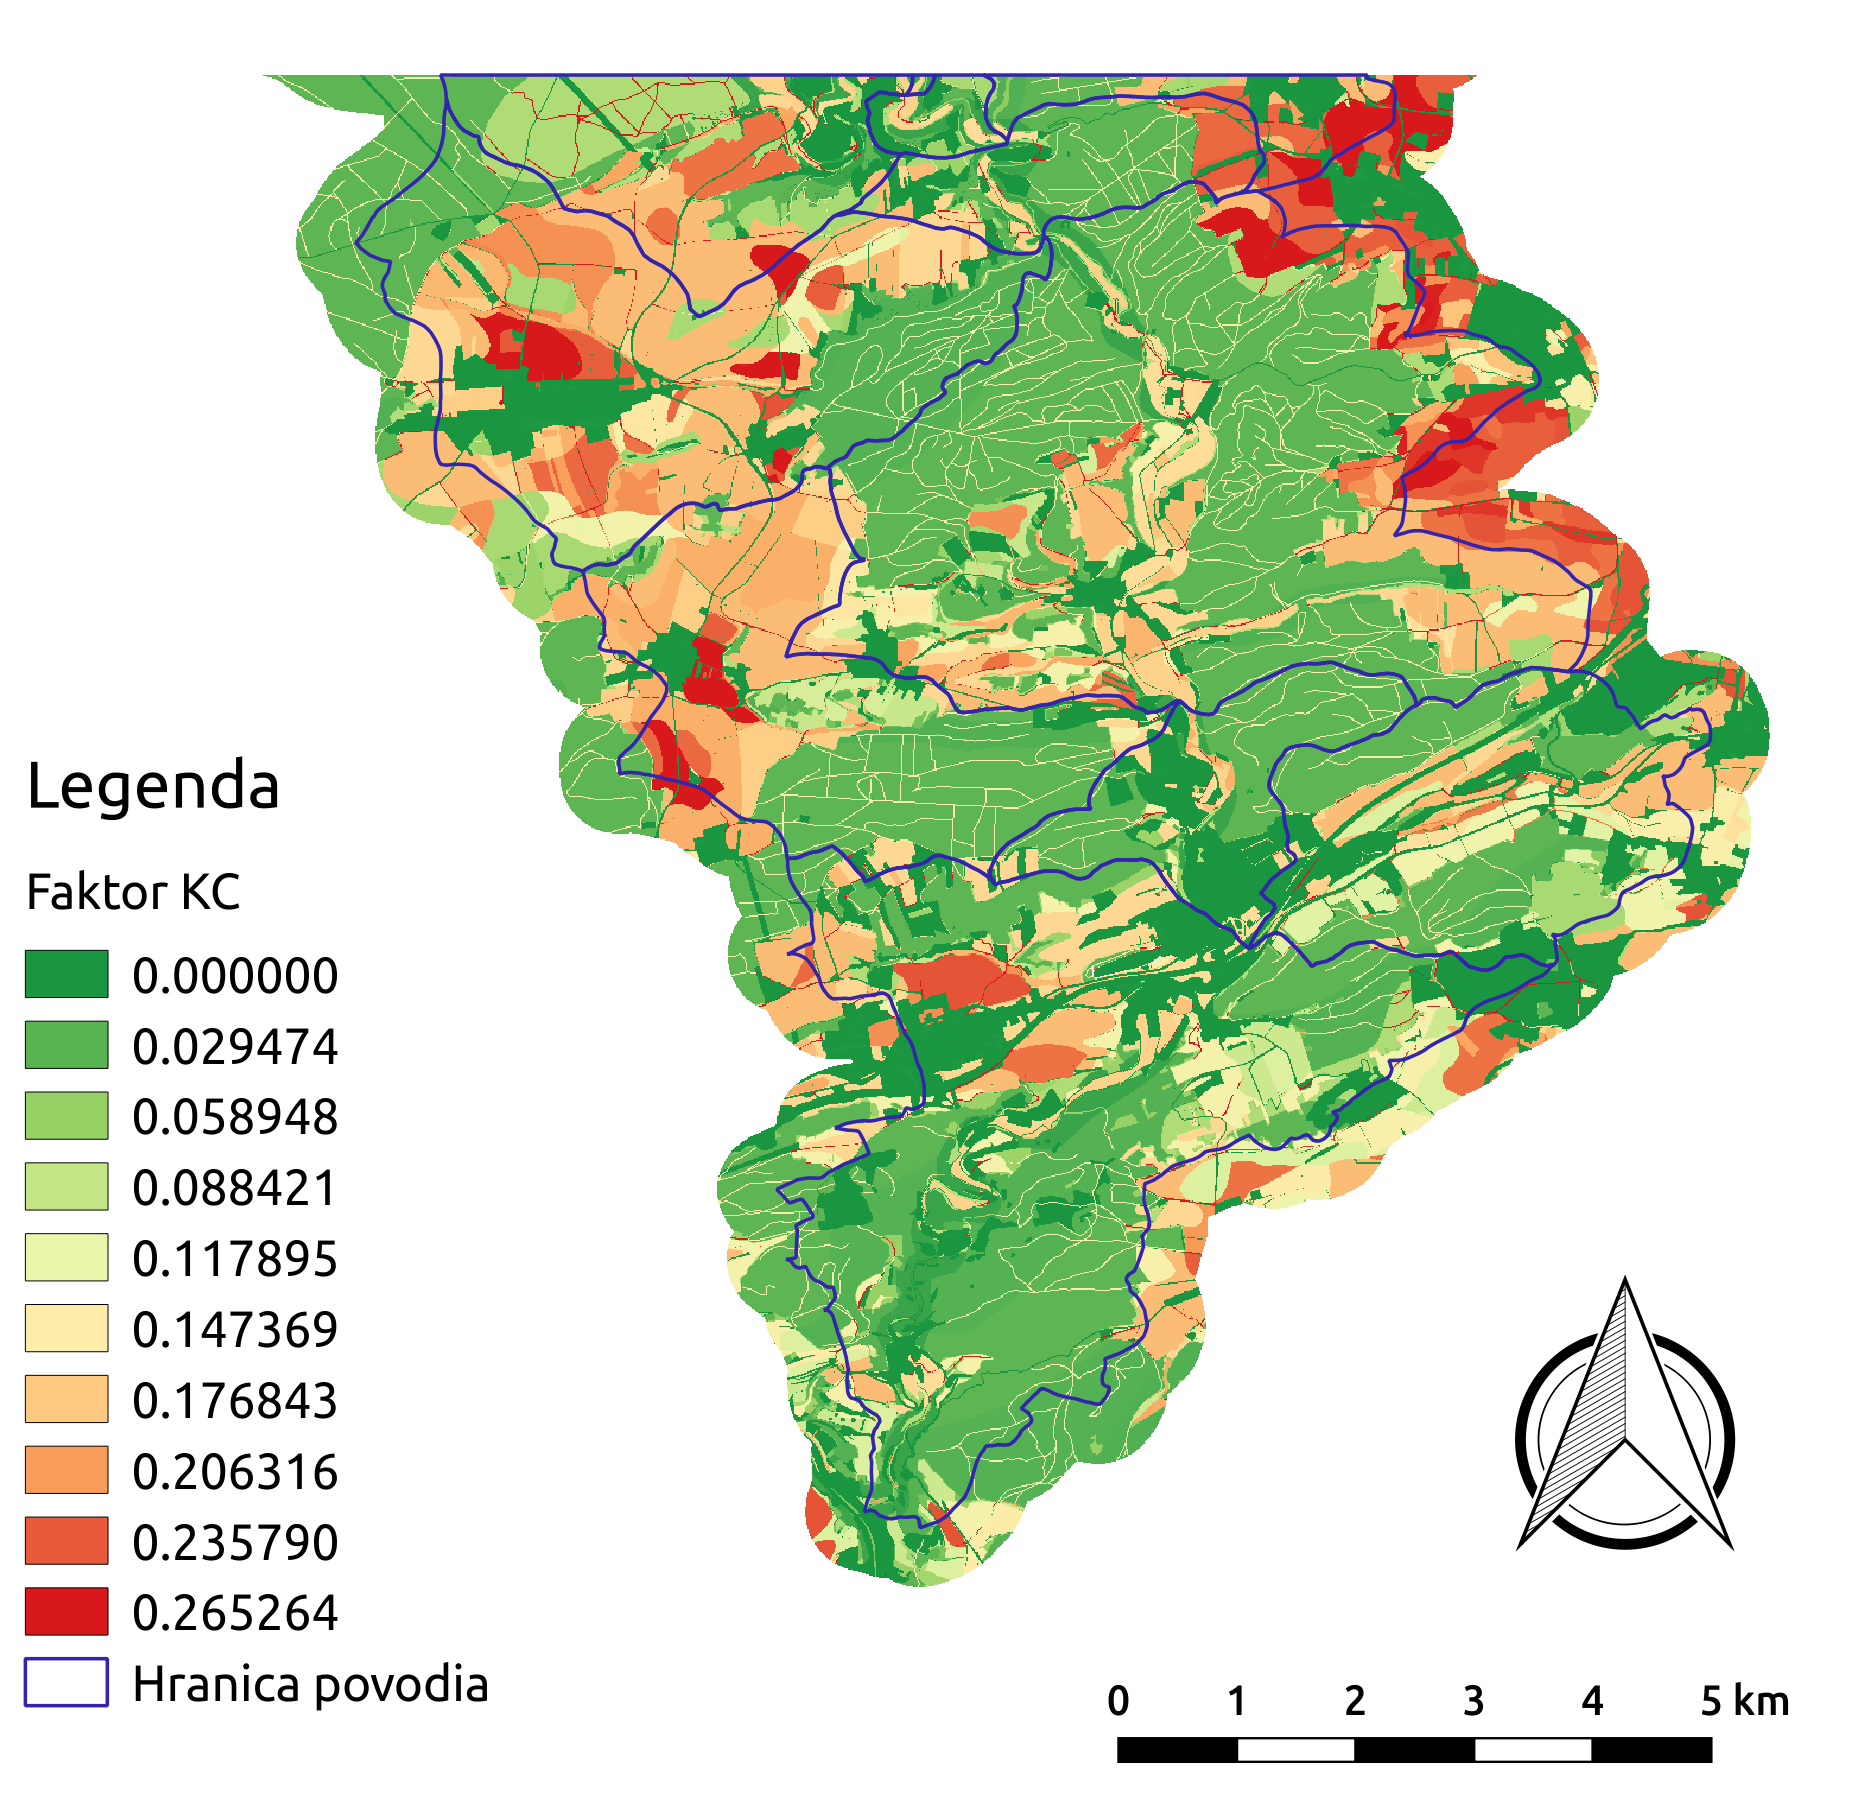
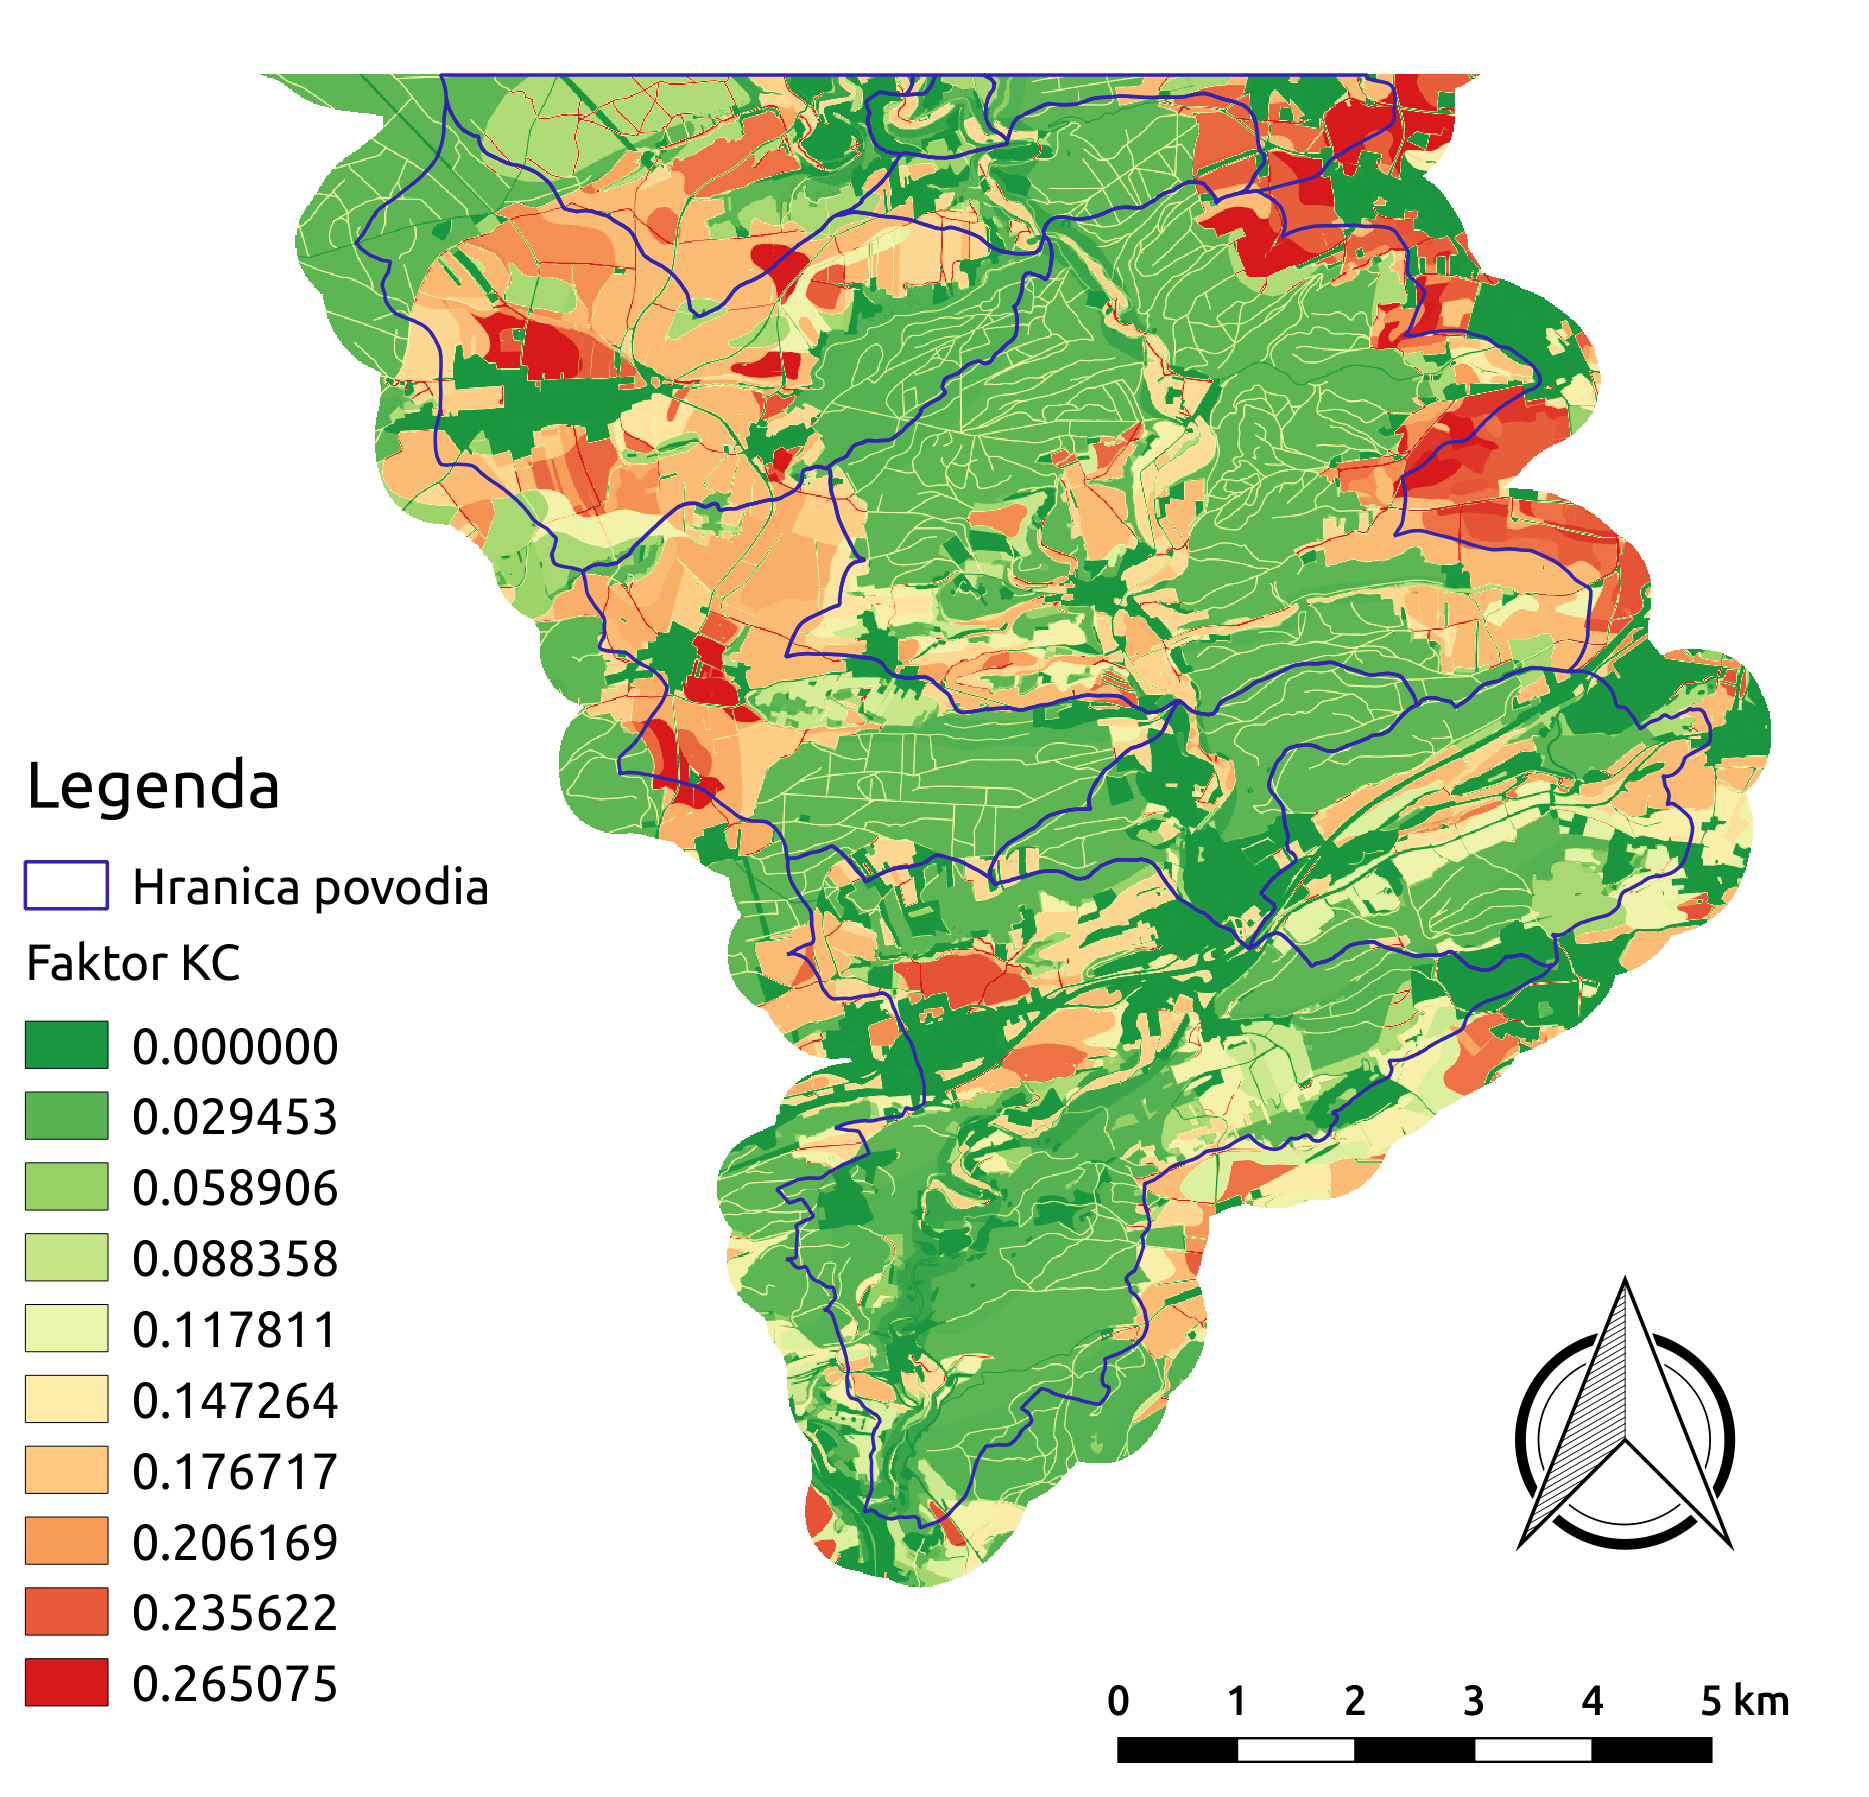
minor unifications

diff --git a/hydrologie/usle.rst b/hydrologie/usle.rst
@@ -8,6 +8,8 @@
    :width: 1.5em
 .. |r.resamp.stats| image:: ../images/gplugin/r.resamp.stats.2.png
    :width: 1.5em
+.. |v.to.rast.attr| image:: ../images/gplugin/v.to.rast.attr.3.png
+   :width: 2em
 
 
 2. Priemerná dlhodobá strata pôdy
@@ -40,7 +42,7 @@ Základné symboly
 Vstupné dáta
 ------------
 
- * :map:`dmt.rst` - digitálny model terénu v rozlišení 10 x 10 m
+ * :map:`dmt.gtiff` - digitálny model terénu v rozlišení 10 x 10 m
  * :map:`hpj.shp` - vektorová vrstva hlavných pôdnych jednotiek (z kódov BPEJ),
  * :map:`kpp.shp` - vektorová vrstva komplexného prieskumu pôd,
  * :map:`landuse.shp` - vektorová vrstva využitia územia,
@@ -65,8 +67,8 @@ Navrhovaný postup
    (:map:`slope` a :map:`accu`)
 7. výpočet parametra `LS`
 8. výpočet parametra `G`
-9. vytvorenie rastrových vrstiev :map:`g.rst`, :map:`g_m.rst` a :map:`ls_m.rst`
-10. výpočet priemerných hodnôt `G` pre povodie s maskou a bez masky a vytvorenie rastrových vrstiev :map:`g_avg.rst` a :map:`g_avg_m.rst`
+9. vytvorenie rastrových vrstiev :map:`g.gtiff`, :map:`g_m.gtiff` a :map:`ls_m.gtiff`
+10. výpočet priemerných hodnôt `G` pre povodie s maskou a bez masky a vytvorenie rastrových vrstiev :map:`g_pov.gtiff` a :map:`g_pov_m.gtiff`
 
 Na :num:`#schema-usle` je prehľadne znázornený navrhovaný postup. 
 
@@ -207,10 +209,10 @@ Krok 8
 
 Krok 9
 ^^^^^^
-9. vytvorenie rastrových vrstiev :map:`g.rst`, :map:`g_m.rst` a :map:`ls_m.rst`
+9. vytvorenie rastrových vrstiev :map:`g.gtiff`, :map:`g_m.gtiff` a :map:`ls_m.gtiff`
 
 Krok 10
 ^^^^^^^
-10. výpočet priemerných hodnôt `G` pre povodie s maskou a bez masky a vytvorenie rastrových vrstiev :map:`g_avg.rst` a :map:`g_avg_m.rst`
+10. výpočet priemerných hodnôt `G` pre povodie s maskou a bez masky a vytvorenie rastrových vrstiev :map:`g_pov.gtiff` a :map:`g_pov_m.gtiff`
 
 

diff --git a/hydrologie/scs-cn.rst b/hydrologie/scs-cn.rst
@@ -108,8 +108,8 @@ Navrhovaný postup
 5. zjednotenie :map:`hpj_kpp_landuse` s vrstvou povodí (:map:`hpj_kpp_lu_pov`)
 6. výpočet výmery elementárnych plôch, parametra :math:`A` a parametra :math:`I_a`
 7. výpočet parametra :math:`H_o` a parametra :math:`O_p` pre každú elementárnu plochu
-8. vytvorenie rastrových vrstiev :map:`ho.rst` a :map:`op.rst`
-9. výpočet priemerných hodnôt priameho odtoku pre povodie a vytvorenie rastrových vrstiev :map:`ho_avg.rst` a :map:`op_avg.rst`
+8. vytvorenie rastrových vrstiev :map:`ho.gtiff` a :map:`op.gtiff`
+9. výpočet priemerných hodnôt priameho odtoku pre povodie a vytvorenie rastrových vrstiev :map:`ho_pov.gtiff` a :map:`op_pov.gtiff`
 
 .. _schema:
 
